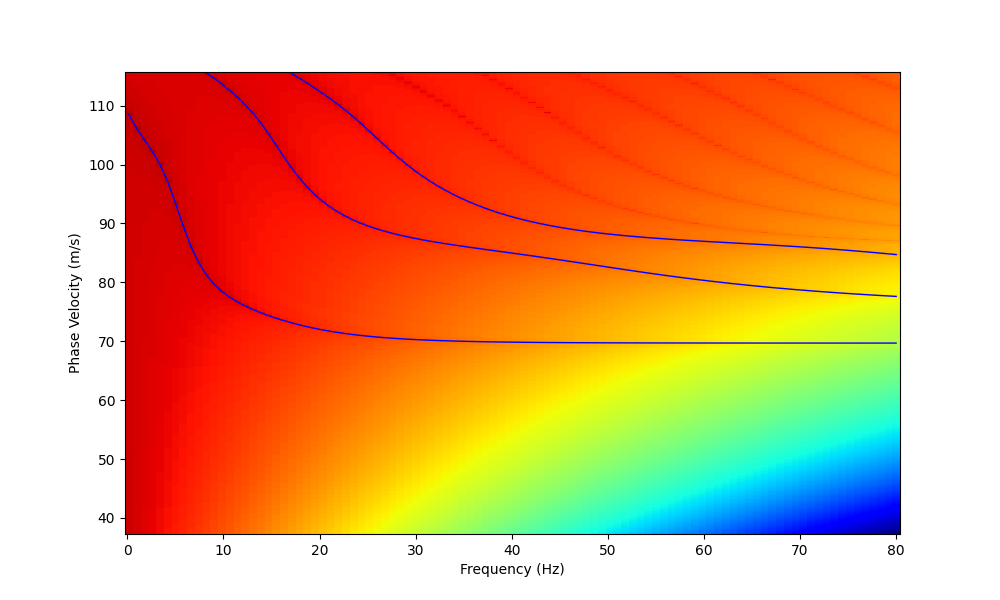
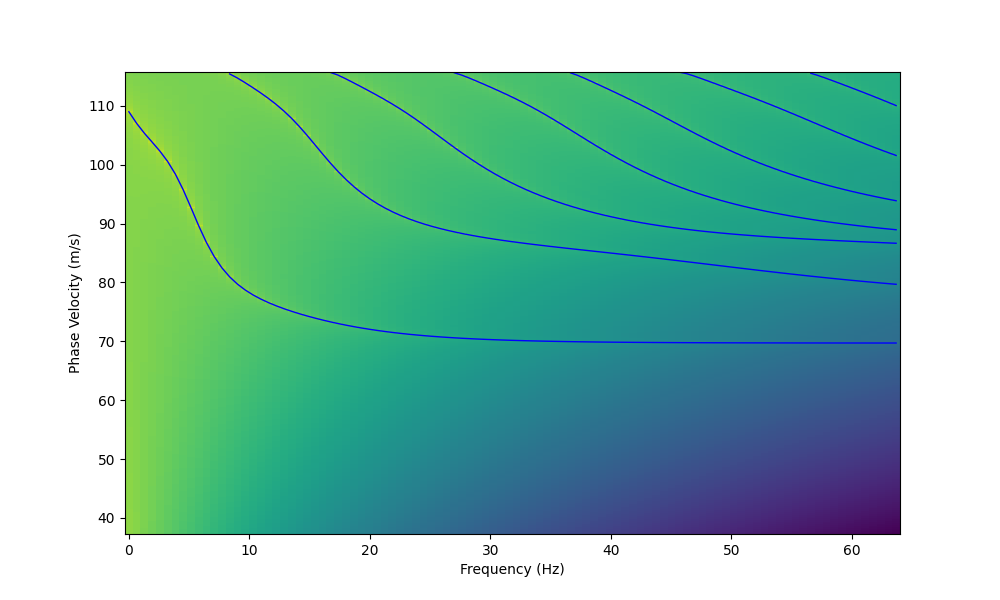
Update number of modes in critical speed calculations and replace soil dispersion images

diff --git a/critical_speed.py b/critical_speed.py
@@ -7,7 +7,7 @@ from TrainCritSpeed.soil_dispersion import Layer, SoilDispersion
 from TrainCritSpeed.critical_speed import CriticalSpeed
 
 omega = np.linspace(0.1, 400, 100)
-number_modes = 5
+number_modes = 10
 
 ballast_parameters = BallastTrackParameters(EI_rail=1.29e7,
                                             m_rail=120,

diff --git a/README.md b/README.md
@@ -34,7 +34,7 @@ soil_layers = [
     Layer(density=2000, young_modulus=75e6, poisson_ratio=0.40, thickness=np.inf),
 ]
 
-number_modes = 3
+number_modes = 10
 
 # Calculate dispersion across frequency range
 omegas = np.linspace(1, 80 * 2 * np.pi, 100)
